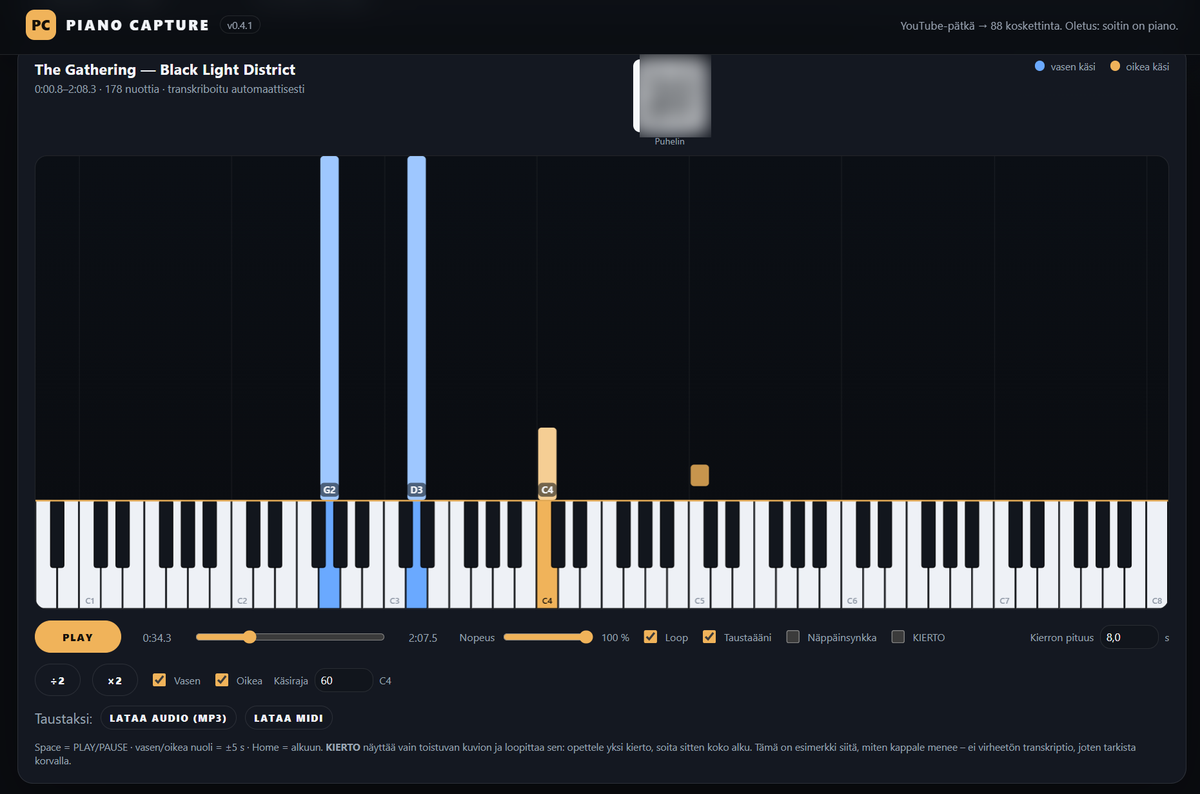
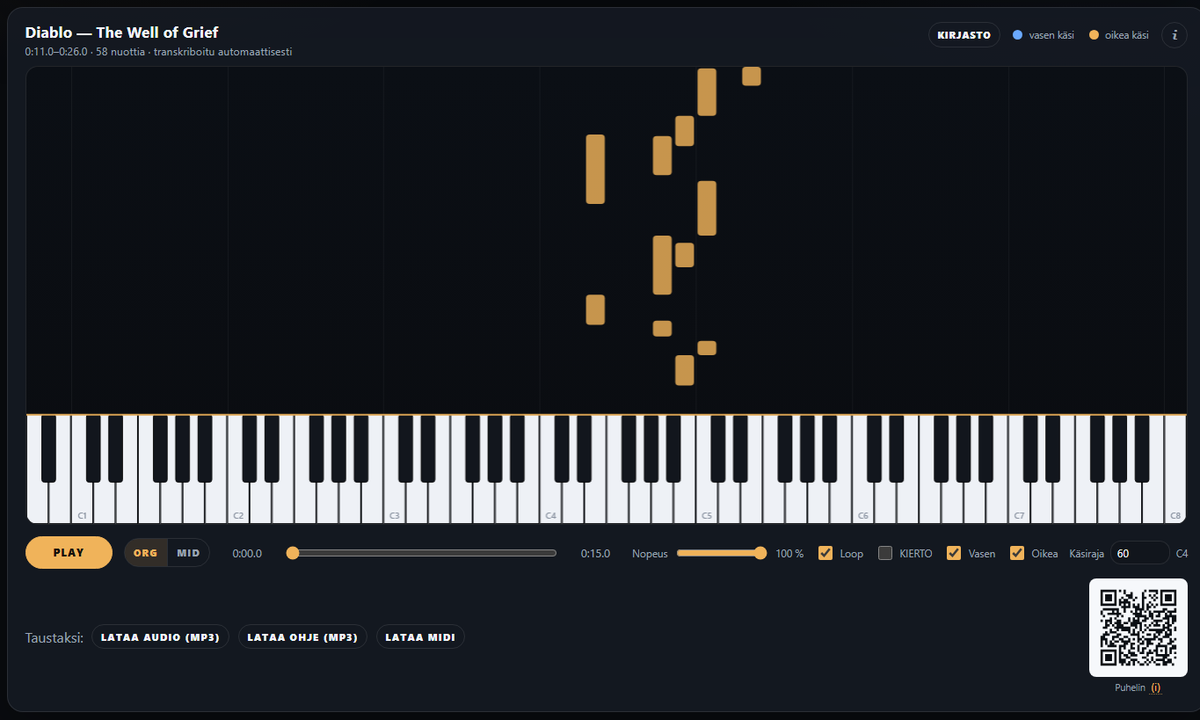
feat(pianocapture): Windows release, current screenshots and download CTA

Changed region(s): [[0.0, 0.0611, 1.0, 0.9778], [0.0, 0.0, 0.2467, 0.1222], [0.7708, 0.0306, 0.9867, 0.0917]]

diff --git a/index.html b/index.html
@@ -862,7 +862,7 @@
         <button class="cart" type="button" data-goto="#tyokalut">
           <span class="ico" aria-hidden="true">🛠</span>
           <h3 data-fi="Hyötyohjelmat">Tools</h3>
-          <p data-fi="FlowCast (info-TV ja mediasoitin), AI TabTool (tablatuurit ja ML) sekä PianoCapture (piano 88 koskettimelle).">FlowCast (info TV and media player), AI TabTool (tabs and machine learning) and PianoCapture (piano onto 88 keys).</p>
+          <p data-fi="FlowCast (info-TV ja mediasoitin), AI TabTool (tablatuurit ja ML) sekä PianoCapture (piano 88 koskettimelle, Windows ja puhelin).">FlowCast (info TV and media player), AI TabTool (tabs and machine learning) and PianoCapture (piano onto 88 keys, Windows and phone).</p>
           <span class="go" data-fi="TUTUSTU →">EXPLORE →</span>
         </button>
         <button class="cart" type="button" data-goto="#qa">
@@ -1091,31 +1091,36 @@
         </article>
 
         <article class="card reveal" id="pianocapture">
-          <div class="meta"><span class="tag local" data-fi="PAIKALLINEN">LOCAL</span><span>v0.4.1</span><span>ML + Canvas</span></div>
+          <div class="meta"><span class="tag local" data-fi="PAIKALLINEN">LOCAL</span><span class="tag live">WINDOWS</span><span>v1.06</span></div>
           <h3>PianoCapture</h3>
-          <p class="desc" data-fi="YouTube-pätkä pianon alkusoitosta 88 koskettimelle: tekoäly etsii intron ja bändin sisääntulon, transkriboi nuotit ja näyttää ne laskevina palkkeina oikealla pianokoskettimistolla — myös puhelimessa.">A YouTube fragment of a piano intro becomes an 88-key keyboard view: AI finds the intro and the band entry, transcribes the notes and shows them as falling blocks — on a phone too.</p>
+          <p class="desc" data-fi="YouTube-linkki tai äänitiedosto muuttuu soitto-ohjeeksi pianolle: näet tulevat nuotit ja koskettimiston, voit hidastaa, loopittaa ja avata saman ohjeen puhelimella. Nyt myös Windows-asennuksena.">A YouTube link or audio file becomes a piano practice view: upcoming notes above an 88-key keyboard, with slowdown, looping and the same guide on your phone. Now also as a Windows installer.</p>
           <div class="shots" role="group" aria-label="Screenshots: PianoCapture">
             <button class="shot" type="button">
-              <img src="assets/tools/pianocapture/pc-view.png" width="1200" height="794" loading="lazy" decoding="async" alt="PianoCapture on desktop: falling note blocks above an 88-key keyboard, the sounding keys highlighted and named G2, D3 and C4">
+              <img src="assets/tools/pianocapture/pc-view.png" width="1200" height="720" loading="lazy" decoding="async" alt="PianoCapture on desktop: falling note blocks above an 88-key keyboard with the sounding keys highlighted, plus playback controls and the phone QR">
               <span class="cap" data-fi="Työpöytä">Desktop</span>
             </button>
-            <button class="shot tall" type="button">
-              <img src="assets/tools/pianocapture/android-view.png" width="611" height="1200" loading="lazy" decoding="async" alt="PianoCapture on an Android phone: the keyboard fitted to the used pitch range, falling notes and playback controls">
+            <button class="shot" type="button">
+              <img src="assets/tools/pianocapture/android-landscape.png" width="1200" height="604" loading="lazy" decoding="async" alt="PianoCapture on an Android phone in landscape: falling notes above the keyboard and the one-row playback controls">
               <span class="cap" data-fi="Android">Android</span>
             </button>
             <button class="shot" type="button">
-              <img src="assets/tools/pianocapture/generator.png" width="958" height="580" loading="lazy" decoding="async" alt="PianoCapture setup: a YouTube link, the suggested piano window and the KÄSITTELE PÄTKÄ button">
-              <span class="cap" data-fi="Lähteen rajaus">Source window</span>
+              <img src="assets/tools/pianocapture/win-installer.png" width="990" height="337" loading="lazy" decoding="async" alt="PianoCapture 1.06 Windows installer progressing; the app installs into the user profile">
+              <span class="cap" data-fi="Windows-asennus">Windows installer</span>
+            </button>
+            <button class="shot" type="button">
+              <img src="assets/tools/pianocapture/setup.png" width="1200" height="324" loading="lazy" decoding="async" alt="PianoCapture setup and library: a YouTube link or audio file, start and end times, the LUO SOITTO-OHJE button and saved guides">
+              <span class="cap" data-fi="Lähde ja kirjasto">Source &amp; library</span>
             </button>
           </div>
           <ul class="shows">
             <li data-fi="Piano-intro ja bändin sisääntulo tunnistetaan automaattisesti; ikkuna on aina muokattavissa.">Finds the piano intro and the band entry automatically; the window stays editable.</li>
             <li data-fi="Toistuva kuvio tunnistetaan ja sen voi loopittaa yhtenä kiertona (KIERTO).">Detects a repeating figure and loops it as one cycle (KIERTO).</li>
             <li data-fi="88 koskettimen näkymä, käsijako, nopeus 50–100 %, taustaääni päälle/pois ja MP3/MIDI-lataus.">88-key view, hand split, 50–100 % speed, backing on/off and MP3/MIDI download.</li>
-            <li data-fi="Puhelin tai tabletti toimii soittimen näyttönä sisäverkossa, avataan QR-koodilla.">A phone or tablet works as the viewer over the LAN, opened by QR.</li>
+            <li data-fi="Toimii myös Windows-asennuksena; puhelin tai tabletti avaa saman ohjeen QR-koodilla.">Also available as a Windows installer; a phone or tablet opens the same guide by QR.</li>
           </ul>
-          <ul class="chips"><li>FastAPI</li><li>Basic Pitch</li><li>Canvas</li><li>yt-dlp</li><li>pytest</li></ul>
+          <ul class="chips"><li>Windows</li><li>FastAPI</li><li>Basic Pitch</li><li>Canvas</li><li>yt-dlp</li><li>pytest</li></ul>
           <div class="actions">
+            <a class="btn small primary" href="https://github.com/teppoaland/tabtool/releases/tag/v1.06" target="_blank" rel="noopener" data-fi="Lataa Windows">Download for Windows</a>
             <a class="btn small" href="https://github.com/teppoaland/tabtool/tree/main/piano" target="_blank" rel="noopener" data-fi="Koodi">Code</a>
             <a class="btn small ghost" href="https://github.com/teppoaland/tabtool/blob/main/piano/README.md" target="_blank" rel="noopener">README</a>
             <button class="btn small ghost" type="button" data-copy="#pianocapture" aria-label="Copy link to this project">⧉</button>
@@ -1359,7 +1364,7 @@
             "Published browser games: GAME HUB (5 mini-games), AI CHAOS STREET, Pimeä Katu.",
             "Games run on PC, Mac, Android and iOS browsers — keyboard on desktop, touch on phones.",
             "Tools: FlowCast (info TV / media server + Android), AI TabTool (audio→MIDI, alphaTab),",
-            "PianoCapture (YouTube piano intro → 88-key view, cycle and phone viewer).",
+            "PianoCapture (YouTube/audio → 88-key piano practice view, Windows + phone viewer).",
             "QA PoCs: Test Radiator dashboard, Sebitti Sää (PoC + production), App Availability Check.",
             "",
             "Portfolio: https://teppoaland.github.io/introduction/",
@@ -1411,7 +1416,7 @@
             "Pelit toimivat PC-, Mac-, Android- ja iOS-selaimissa: näppäimistö työpöydällä,",
             "kosketusohjaimet puhelimessa — ei asennuksia.",
             "Hyötyohjelmat: FlowCast (info-TV/mediapalvelin + Android), AI TabTool (audio→MIDI, alphaTab),",
-            "PianoCapture (YouTube-piano-intro → 88 koskettinta, kierto ja puhelinnäkymä).",
+            "PianoCapture (YouTube/ääni → 88 koskettimen soitto-ohje, Windows + puhelin).",
             "QA-PoC:t: Test Radiator -dashboard, Sebitti Sää (PoC + tuotanto), App Availability Check.",
             "",
             "Portfolio: https://teppoaland.github.io/introduction/",

diff --git a/README.md b/README.md
@@ -27,7 +27,7 @@ assets/games/ai-chaos-street/   menu.jpg · street-night.jpg · closeup.jpg
 assets/games/pimea-katu/        street.jpg · jukebox.jpg
 assets/tools/ai-tabtool/        pc-view.jpg · ad-generate.jpg · remote-play.jpg · remote-library.jpg
 assets/tools/flowcast/          admin-panel.png · display-pc.jpg · display-mobile.jpg · settings.jpg
-assets/tools/pianocapture/      pc-view.png · android-view.png · generator.png
+assets/tools/pianocapture/      pc-view.png · android-landscape.png · win-installer.png · setup.png
 ```
 
 Pelikuvat on skaalattu niin, että pisin sivu on ≤ 1200 px ja JPEG-laatu 82–86;
